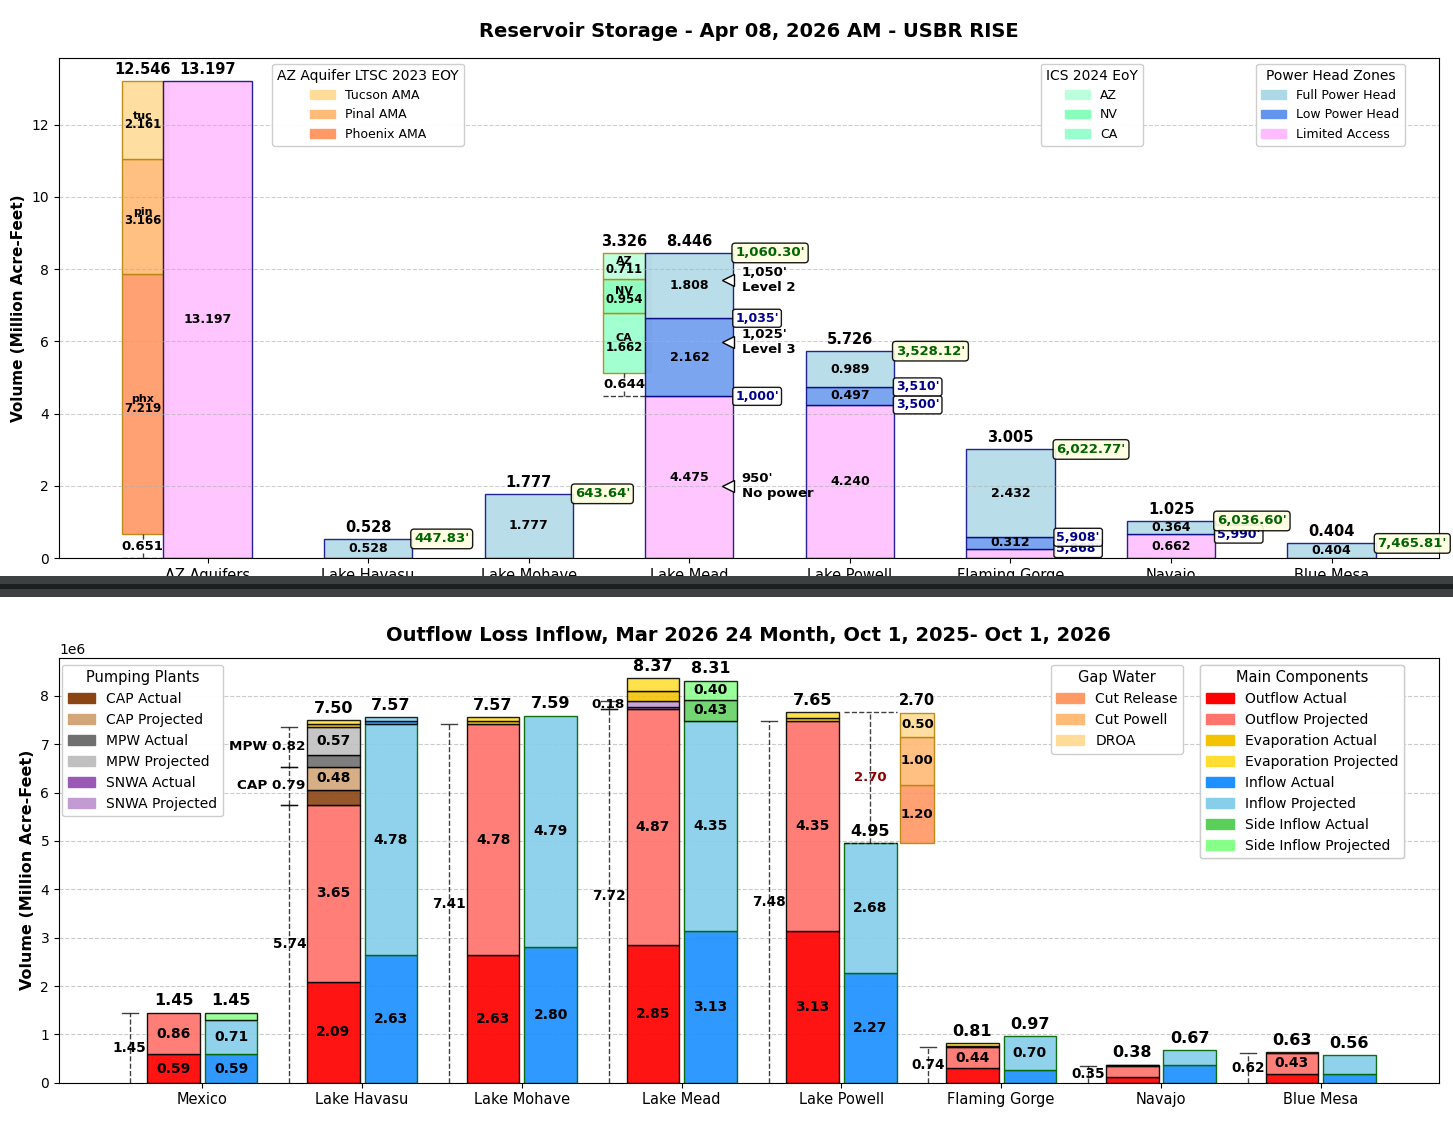
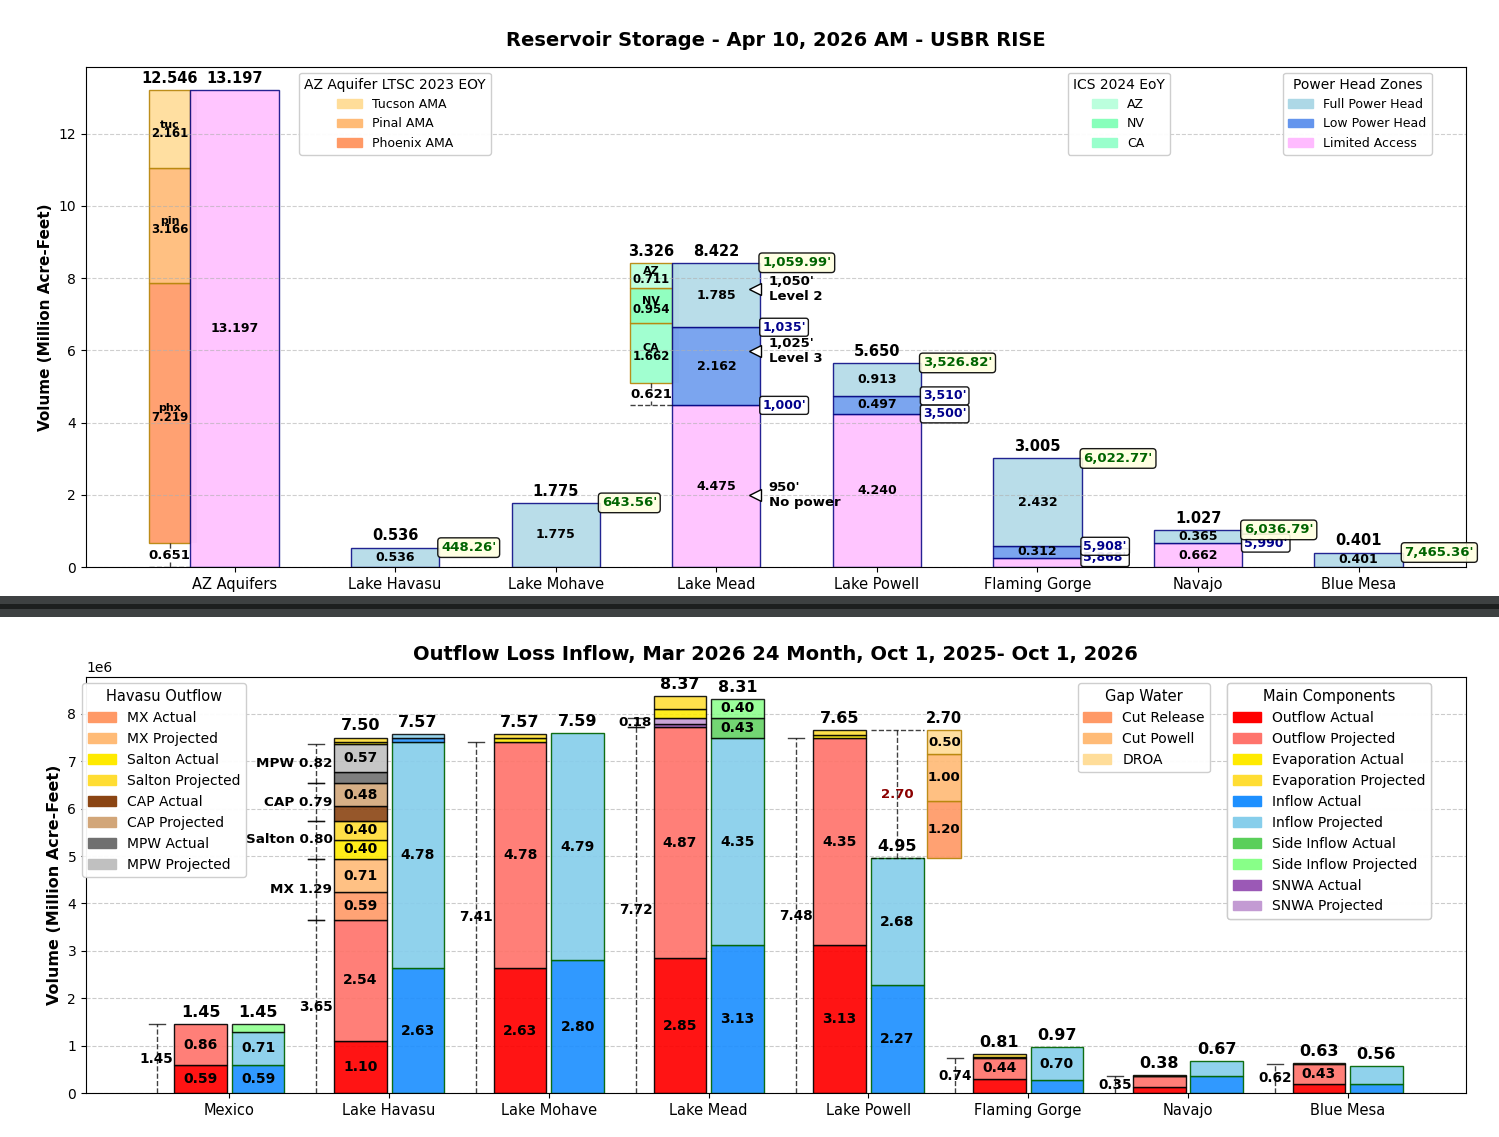
Mostly Havasu Outfow bar

Changed region(s): [[0.0, 0.0, 1.0, 0.9964], [0.8362, 0.0311, 0.9911, 0.1557]]

diff --git a/reservoirs/lake_havasu.py b/reservoirs/lake_havasu.py
@@ -71,18 +71,38 @@ class LakeHavasu(Reservoir):
         self.outflow_parts = self.get_24_month_outflow(self.df_24_month)
         self.evap_parts = self.get_24_month_evap(self.df_24_month)
 
-        self.cap_diversion_projected_af = self.get_24_month_projected(self.df_24_month, "CAP Diversion")
         self.cap_diversion_actual_af = self.get_24_month_actual(self.df_24_month, "CAP Diversion")
+        self.cap_diversion_projected_af = self.get_24_month_projected(self.df_24_month, "CAP Diversion")
 
-        self.mwd_diversion_projected_af = self.get_24_month_projected(self.df_24_month, "MWD Diversion")
         self.mwd_diversion_actual_af = self.get_24_month_actual(self.df_24_month, "MWD Diversion")
+        self.mwd_diversion_projected_af = self.get_24_month_projected(self.df_24_month, "MWD Diversion")
+
+        self.flow_to_mexico_actual_af = self.get_24_month_actual(self.df_24_month, "Flow To Mexico")
+        self.flow_to_mexico_projected_af = self.get_24_month_projected(self.df_24_month, "Flow To Mexico")
+
+        self.outflow_actual_af -= self.flow_to_mexico_actual_af
+        self.outflow_projected_af -= self.flow_to_mexico_projected_af
+
+        self.salton_actual_af = 400000
+        self.salton_projected_af = 400000
+
+        self.outflow_actual_af -= self.salton_actual_af
+        self.outflow_projected_af -= self.salton_projected_af
+
+        self.outflow_parts = [("Actual", self.outflow_actual_af, Reservoir.outflow_actual_color),
+                              ("Projected", self.outflow_projected_af, Reservoir.outflow_projected_color)]
+
 
         self.pump_parts = [
+            ("MX Actual", self.flow_to_mexico_actual_af, Reservoir.flow_to_mexico_actual_color),
+            ("MX Projected", self.flow_to_mexico_projected_af, Reservoir.flow_to_mexico_projected_color),
+            ("Salton Actual", self.salton_actual_af, Reservoir.salton_actual_color),
+            ("Salton Projected", self.salton_projected_af, Reservoir.salton_projected_color),
             ("CAP Actual", self.cap_diversion_actual_af, Reservoir.cap_pump_actual_color),
             ("CAP Projected", self.cap_diversion_projected_af, Reservoir.cap_pump_projected_color),
             ("MPW Actual", self.mwd_diversion_actual_af, Reservoir.mwd_pump_actual_color),
             ("MPW Projected", self.mwd_diversion_projected_af, Reservoir.mwd_pump_projected_color),
-                           ]
+             ]
 
         # usbr_lake_havasu_release_total_af = 6126
         # sheet.usbr_annuals(self.df, usbr_lake_havasu_release_total_af, self.water_year, self.water_year, title=lb.HAVASU_RELEASE, month=all_b.CY, divisor=1)

diff --git a/colorado/graph_inflow_outflow.py b/colorado/graph_inflow_outflow.py
@@ -77,7 +77,9 @@ def create_inflow_outflow_chart(reservoirs, title="Outflow Loss Inflow, Mar 2026
         mpatches.Patch(color=Reservoir.inflow_actual_color, label='Inflow Actual'),
         mpatches.Patch(color=Reservoir.inflow_projected_color, label='Inflow Projected'),
         mpatches.Patch(color=Reservoir.side_inflow_actual_color, label='Side Inflow Actual'),
-        mpatches.Patch(color=Reservoir.side_inflow_projected_color, label='Side Inflow Projected')
+        mpatches.Patch(color=Reservoir.side_inflow_projected_color, label='Side Inflow Projected'),
+        mpatches.Patch(color=Reservoir.snwa_pump_actual_color, label='SNWA Actual'),
+        mpatches.Patch(color=Reservoir.snwa_pump_projected_color, label='SNWA Projected')
     ]
     leg_main = ax.legend(handles=main_handles, loc='upper right',
                          title="Main Components", title_fontsize=10.5,
@@ -101,20 +103,21 @@ def create_inflow_outflow_chart(reservoirs, title="Outflow Loss Inflow, Mar 2026
                             bbox_to_anchor=(0.82, 1.0))   # Positioned between pump and main
         ax.add_artist(leg_main)
 
-    # 3. Pump Legend (original position)
+    # 3. Havasu Legend (original position)
     pump_handles = []
     seen = set()
     for r in reservoirs:
         for full_label, amount, color in getattr(r, 'pump_parts', []):
-            if amount > 0 and full_label not in seen:
-                seen.add(full_label)
-                pump_handles.append(mpatches.Patch(color=color, label=full_label))
+            if r.name == 'Lake Havasu':
+                if amount > 0 and full_label not in seen:
+                    seen.add(full_label)
+                    pump_handles.append(mpatches.Patch(color=color, label=full_label))
 
     if pump_handles:
         leg_pump = ax.legend(handles=pump_handles, loc='upper right',
-                             title="Pumping Plants", title_fontsize=10.5,
+                             title="Havasu Outflow", title_fontsize=10.5,
                              fontsize=10, framealpha=0.95,
-                             bbox_to_anchor=(0.124, 1.0))
+                             bbox_to_anchor=(0.121, 1.0))
         ax.add_artist(leg_main)   # Re-add main on top
 
     # Optional: Add gap legend again at the end if needed

diff --git a/reservoirs/lake_powell.py b/reservoirs/lake_powell.py
@@ -70,18 +70,15 @@ class LakePowell(Reservoir):
         # Actual from USBR/USGS
         headers_24_month = list(self.df_24_month.columns.astype(str))
         df: pd.DataFrame = sheet.create_monthly_df(self.water_year_info.start_date, self.water_year_info.end_date, headers_24_month)
-        Reservoir.usbr_monthly_into_df(df, self.usbr_rise_inflow_af_id, self.water_year, "Unregulated Inflow", month=all_b.WY)
-        Reservoir.usbr_monthly_into_df(df, self.usbr_rise_release_af_id, self.water_year, "Total Release", month=all_b.WY)
-        Reservoir.usbr_monthly_into_df(df, self.usbr_rise_evap_af_id, self.water_year, "Evaporation Losses", month=all_b.WY)
+        Reservoir.usbr_monthly(df, self.usbr_rise_inflow_af_id, self.water_year, "Unregulated Inflow", month=all_b.WY)
+        Reservoir.usbr_monthly(df, self.usbr_rise_release_af_id, self.water_year, "Total Release", month=all_b.WY)
+        Reservoir.usbr_monthly(df, self.usbr_rise_evap_af_id, self.water_year, "Evaporation Losses", month=all_b.WY)
 
-        Reservoir.usbr_end_of_month_into_df(df, self.usbr_rise_elevation_ft_id, self.water_year, "Reservoir Elevation End of Month ft", month=all_b.WY)
-        Reservoir.usbr_end_of_month_into_df(df, self.usbr_rise_storage_af_id, self.water_year, "End Of Month Storage", month=all_b.WY)
+        Reservoir.usbr_end_of_month(df, self.usbr_rise_elevation_ft_id, self.water_year, "Reservoir Elevation End of Month ft", month=all_b.WY)
+        Reservoir.usbr_end_of_month(df, self.usbr_rise_storage_af_id, self.water_year, "End Of Month Storage", month=all_b.WY)
 
         self.df_monthly = df
         df_diff = Reservoir.subtract_dataframes(self.df_monthly, self.df_24_month)
-        # monthly = sheet.usbr_monthly(self.usbr_rise_inflow_af_id, self.water_year, month=all_b.WY)
-        # self.inflow_actual_af = self.get_sum_end_of_month(usbr_lake_powell_unregulated_inflow_af)
-        # self.outflow_actual_af = self.get_sum_end_of_month(usbr_lake_powell_release_total_af)
 
         # self.evap_actual_af = self.get_evaporation(510, ub.POWELL_EVAPORATION_WY)
         # self.evap_actual_af = self.get_sum_end_of_month(510)

diff --git a/reservoirs/reservoir.py b/reservoirs/reservoir.py
@@ -49,7 +49,7 @@ class Reservoir:
     side_inflow_actual_color = '#5acf5a'    # Green
     side_inflow_projected_color = '#88ff88'
 
-    evap_actual_color = '#F4C300'           # Yellow
+    evap_actual_color = '#FFEA00'           # Yellow
     evap_projected_color = '#FFDD33'
 
     cap_pump_actual_color = '#8B4513'       # Brown
@@ -61,6 +61,11 @@ class Reservoir:
     snwa_pump_actual_color = '#9B59B6'      # Purple
     snwa_pump_projected_color = '#C39BD3'
 
+    flow_to_mexico_actual_color = '#ff9966'      # Orange
+    flow_to_mexico_projected_color = '#ffbb77'
+
+    salton_actual_color = '#FFEA00'  # Yellow, same as evap
+    salton_projected_color = '#FFDD33'
 
     def __init__(self, name:str, headers:List[str], month=10):
         self.name:str = name
@@ -217,7 +222,7 @@ class Reservoir:
 
         return result
 
-    def usbr_end_of_month_into_df(
+    def usbr_end_of_month(
             df: pd.DataFrame,
             gage_id: int,
             year: int,
@@ -288,7 +293,7 @@ class Reservoir:
 
         print(f"✓ Filled {filled} months into '{column_name}' (last value per month + forced partial month)")
 
-    def usbr_monthly_into_df(
+    def usbr_monthly(
             df: pd.DataFrame,
             gage_id: int,
             year: int,

diff --git a/wxriver_ops.py b/wxriver_ops.py
@@ -98,7 +98,8 @@ class ReservoirChartFrame(wx.Frame):
 
         # ==================== COMBINED DASHBOARD PAGE ====================
         self.combined_panel = wx.Panel(self.notebook)
-        self.splitter = wx.SplitterWindow(self.combined_panel, style=wx.SP_LIVE_UPDATE | wx.SP_3D)
+        self.splitter = wx.SplitterWindow(self.combined_panel,
+                                          style=wx.SP_THIN_SASH |wx.SP_LIVE_UPDATE | wx.SP_3D)
         self.splitter.SetMinimumPaneSize(200)
 
         # Top: Capacity
